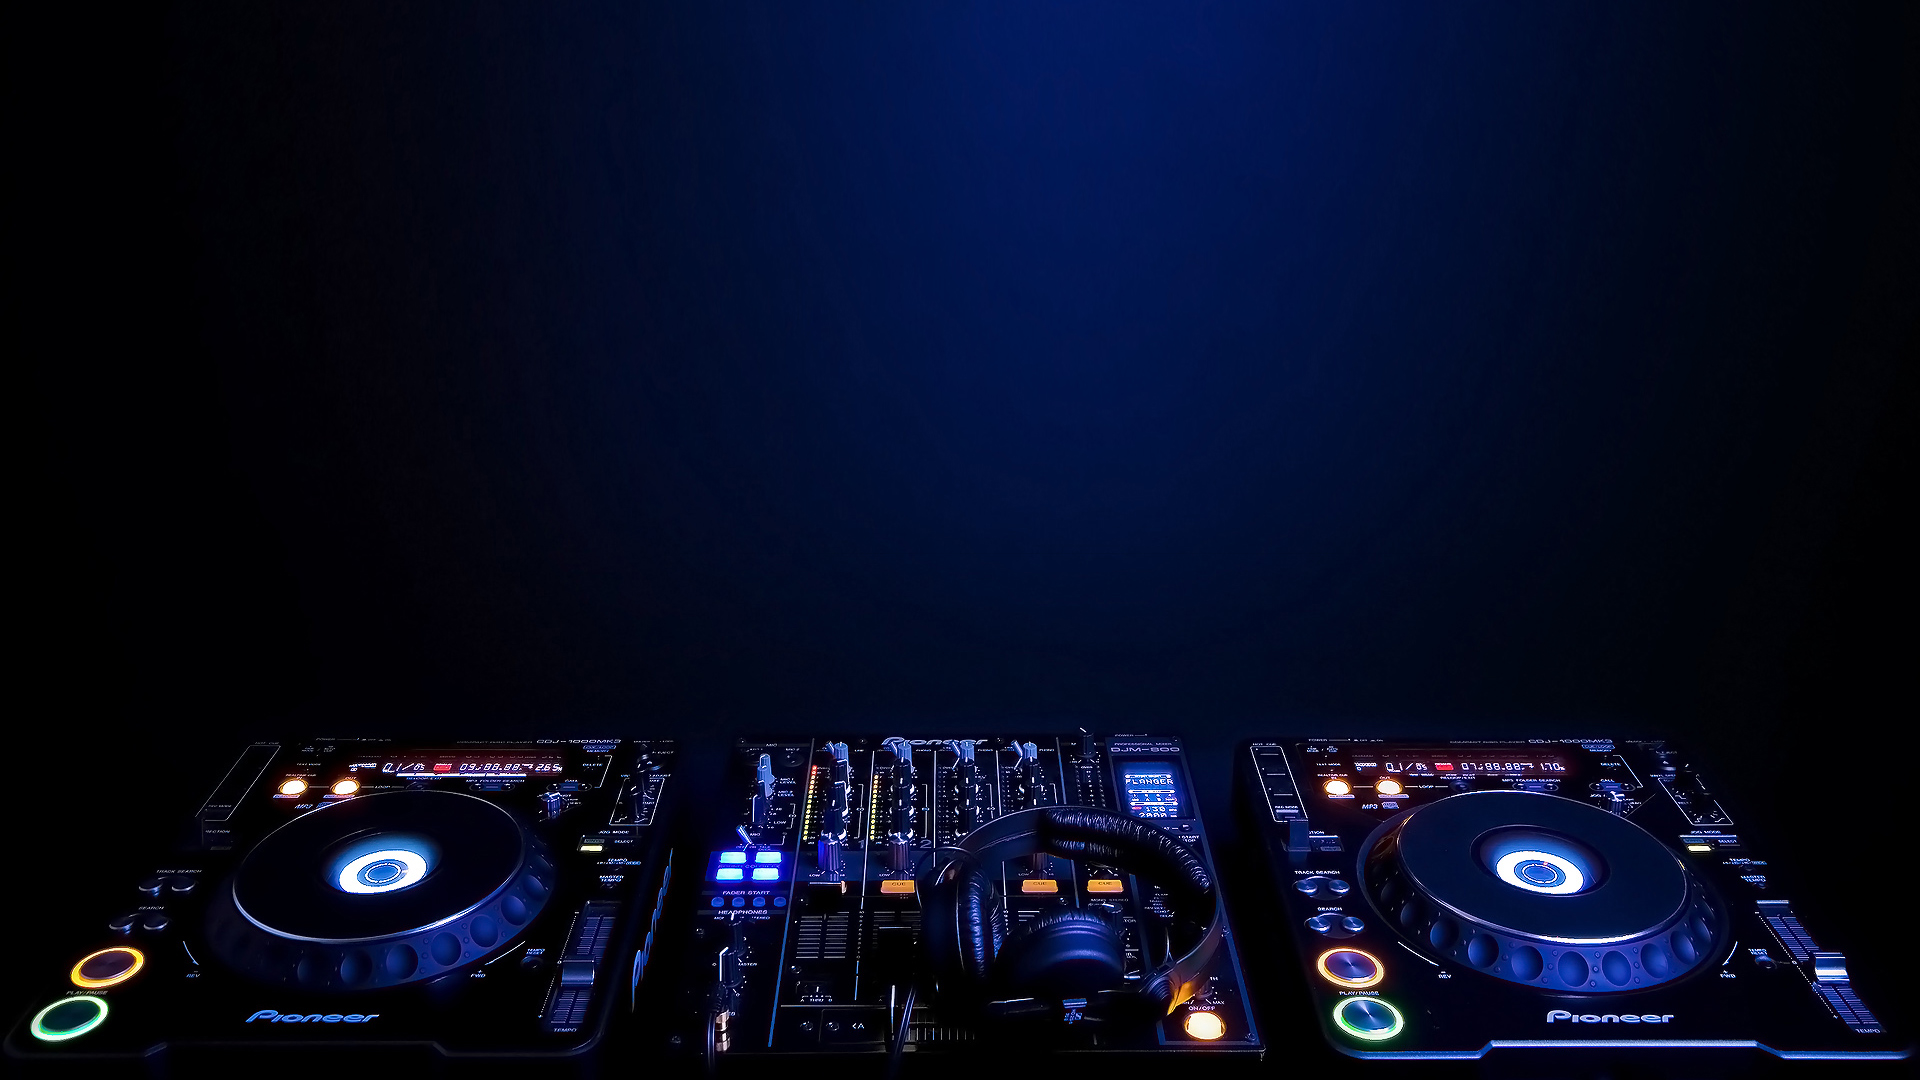
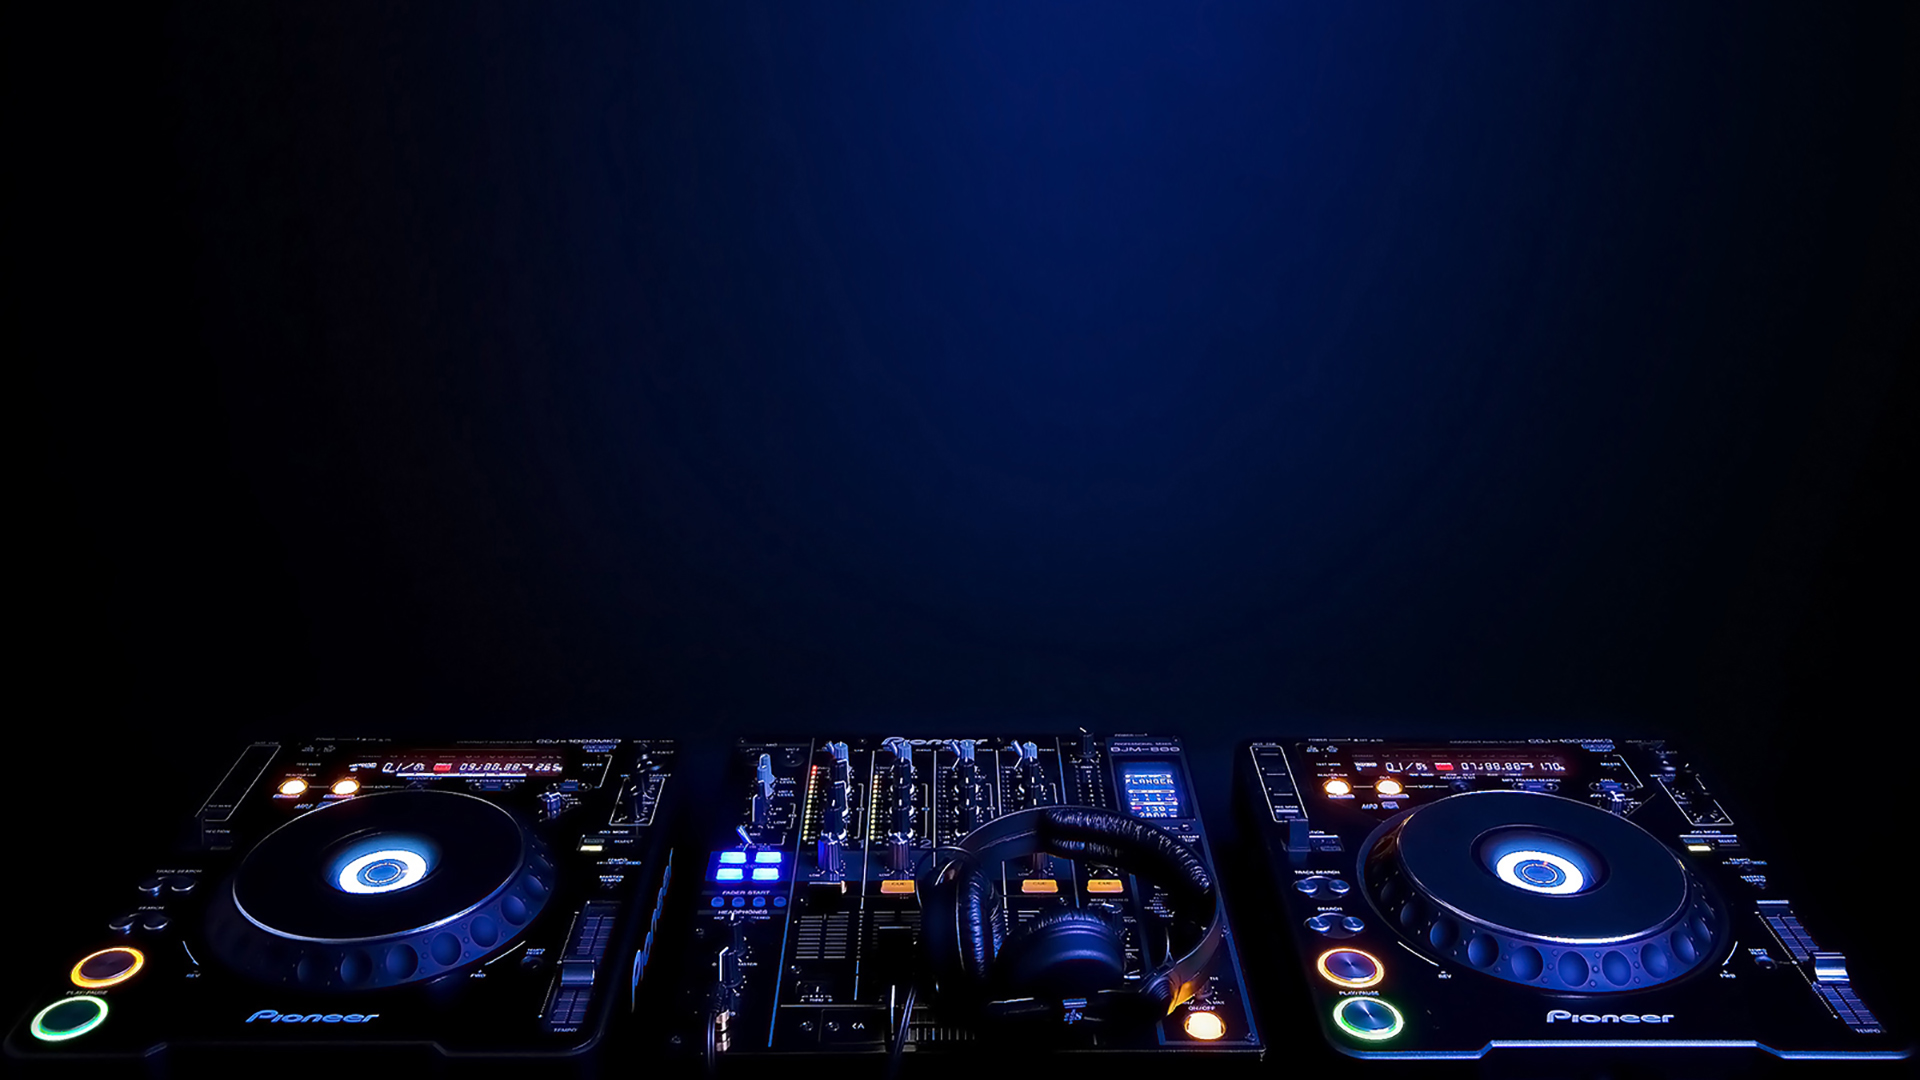
fix

diff --git a/Project-3/css/style.css b/Project-3/css/style.css
@@ -5,9 +5,8 @@ html {
   width: 100%;
   height: 100%;
   background-image: url(../image/djbackround.jpg);
-  background-size:     cover;
-  background-repeat:   no-repeat;
-  background-position: center;
+  margin: auto;
+
 }
 body {
   width: inherit;
@@ -28,12 +27,12 @@ a {
 #overlay {
   width: 100%;
   height: 100%;
-  background-image: url(../images/background.png);
-  background-size: cover;
+  background-image: url(../images/djbackground.jpg);
+  background-size: contain;
   position: absolute;
   top: 0;
   left: 0;
-  z-index: 0;
+  z-index: -1;
 }
 
 #content-container {
@@ -59,6 +58,7 @@ h1 {
 p {
   color: white;
   margin: 0;
+  font-size: 1.5em;
   padding-right: 50px;
   font-weight: 400;
   letter-spacing: 10px;
